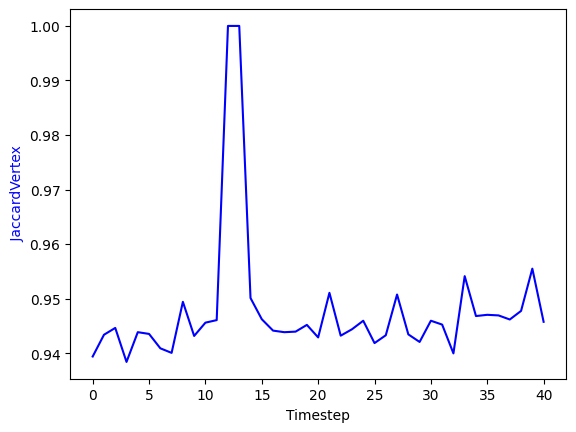
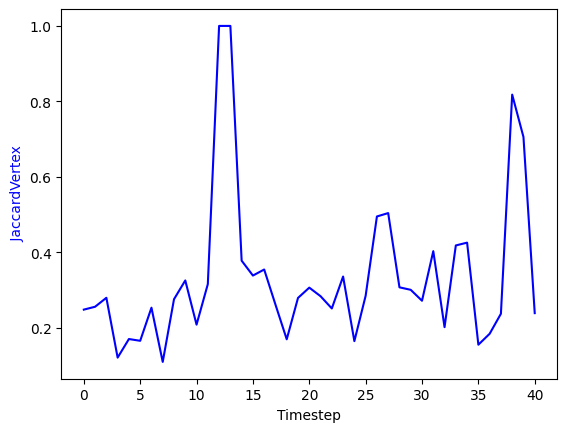
Added Some plots

diff --git a/DataVisualization/main.py b/DataVisualization/main.py
@@ -4,8 +4,6 @@ import numpy as np
 import pandas
 
 
-
-
 def visualize(dataframe : pandas.DataFrame, skipSecond: bool):
     header = list(dataframe.columns)
     results : np.ndarray = dataframe.values
@@ -15,7 +13,7 @@ def visualize(dataframe : pandas.DataFrame, skipSecond: bool):
 
     xval = [i for i in range(rows)]
 
-    for metric in range(2,4):
+    for metric in range(2,6):
         if(metric == 0):
             continue
         if(skipSecond):
@@ -52,23 +50,50 @@ binaryResults : np.ndarray = np.array([[]])
 binaryResults.shape=(0, 6)
 
 shortModel = "SchemEx"
-first : int = 2013
-last : int= 2013
+first : int = 2016
+last : int= 2019
 for year in range(first, last +1):
[1 lines of base64/hex data omitted]
-    #unaryResults = np.concatenate((unaryResults, visualize(unaryDF, False)), 0)
[2 lines of base64/hex data omitted]
+    unaryResults = np.concatenate((unaryResults, visualize(unaryDF, False)), 0)
[1 lines of base64/hex data omitted]
     binaryResults = np.concatenate((binaryResults, visualize(binaryDF, True)), 0)
 
 
 
 
+xval = [i for i in range(unaryResults.shape[0])]
+unaryHeader = list(unaryDF.columns)
+
+for metric in range(2,6):
+    if(metric == 0):
+        continue
+    
+    unaryVals = unaryResults[:, metric]
+    print(str(unaryVals))
+    plt.plot(xval, unaryVals, color='blue')
+    plt.xlabel('Timestep')
+    plt.ylabel(unaryHeader[metric], color='blue')
+
+    if(metric == 2):
+        ax2 = plt.twinx()
+        referenceValues=unaryResults[:, 1]
+        ax2.plot(xval, referenceValues, linestyle="dotted", color='orange')
+        ax2.set_ylabel(unaryHeader[1], color = 'orange')
+    if(metric == 4):
+        ax2 = plt.twinx()
+        referenceValues=unaryResults[:,3]
+        ax2.plot(xval, referenceValues, linestyle="dotted", color='orange')
+        ax2.set_ylabel(unaryHeader[3], color='orange')
+
+    plt.tight_layout()
[1 lines of base64/hex data omitted]
+    plt.show()
 
 
 xval = [i for i in range(binaryResults.shape[0])]
 binaryHeader = list(binaryDF.columns)
 
-for metric in range(2,4):
+for metric in range(2,6):
     if(metric == 0 or metric == 1): 
         continue
     binaryVals = binaryResults[:, metric]

diff --git a/DiffernecesOfSummaries/src/main/java/metrics/binary/EMD.java b/DiffernecesOfSummaries/src/main/java/metrics/binary/EMD.java
@@ -1,0 +1,74 @@
+package metrics.binary;
+
+import com.rits.cloning.Cloner;
+import datamodel.CostEdge;
+import datamodel.Edge;
+import datamodel.ExtGraph;
+import datamodel.MultiGraph;
+import metrics.BinaryMetric;
+import org.jgrapht.Graph;
+import org.jgrapht.graph.Multigraph;
+import results.Result;
+
+import java.util.HashMap;
+import java.util.HashSet;
+import java.util.Set;
+
+public class EMD implements BinaryMetric {
+    @Override
+    public Result compute(ExtGraph graph1, ExtGraph graph2) {
+
+
+        Cloner cloner = new Cloner();
+        HashMap<Integer, Integer> workCopy = cloner.deepClone(graph2.getSecondaryIndex());
+        Set<Integer> sources = new HashSet<>();
+        Set<Integer> targets = new HashSet<>();
+
+
+        //Find differences in Size
+        for(Integer vertex : graph1.getSecondaryIndex().keySet()){
+            if(graph2.getSecondaryIndex().containsKey(vertex)){
+                workCopy.remove(vertex);
+                int size1 = graph1.getSecondaryIndex().get(vertex);
+                int size2 = graph2.getSecondaryIndex().get(vertex);
+                if(size1 > size2){
+                    targets.add(vertex);
+                }
+                if(size1 < size2){
+                    sources.add(vertex);
+                }
+            }
+            else {
+                sources.add(vertex);
+            }
+
+        }
+        //Remaining vertices in workCopy are newly added -> all targets
+        targets.addAll(workCopy.keySet());
+
+
+    }
+
+
+
+    private int getDistance(ExtGraph extGraph, Integer source, Integer target){
+        if(extGraph.getGraph().vertexSet().contains(source)){
+            int inDiff = Math.abs(extGraph.getGraph().getInDegreeMap().get(source) - extGraph.getGraph().getInDegreeMap().get(target));
+            int outDiff = Math.abs(extGraph.getGraph().getOutDegreeMap().get(source) - extGraph.getGraph().getOutDegreeMap().get(target));
+            return inDiff + outDiff;
+        }
+        else{
+            return extGraph.getGraph().getInDegreeMap().get(target) + extGraph.getGraph().getOutDegreeMap().get(target) + 1;
+        }
+    }
+
+
+    private float successiveShortestPath(Graph<Integer, Edge> graph){
+
+    }
+
+
+
+
+
+}

diff --git a/DiffernecesOfSummaries/src/main/java/datamodel/CostEdge.java b/DiffernecesOfSummaries/src/main/java/datamodel/CostEdge.java
@@ -1,0 +1,21 @@
+package datamodel;
+
+public class CostEdge extends Edge{
+
+    private int cap;
+    private int distance;
+
+    public CostEdge(Integer in, Integer out, int cap, int distance){
+        super(in, out);
+        this.cap = cap;
+        this.distance = distance;
+    }
+
+    public int getCap() {
+        return cap;
+    }
+
+    public int getDistance() {
+        return distance;
+    }
+}
